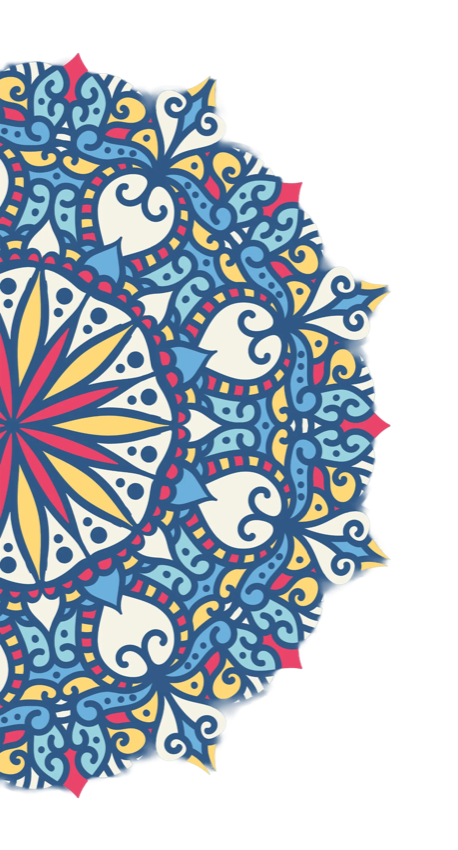
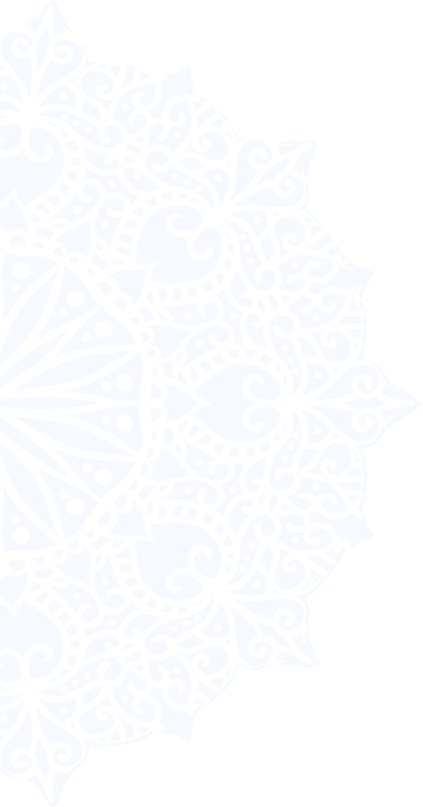
style: update opacity for login patterns to enhance visibility

diff --git a/src/pages/app/loginnew/page.vue b/src/pages/app/loginnew/page.vue
@@ -193,14 +193,14 @@ const onDone = () => {
   background-repeat: no-repeat;
   background-position: left center;
   background-size: auto 105%;
-  opacity: 0.15;
+  opacity: 1;
   -webkit-mask-image: linear-gradient(to right, #000 45%, transparent 85%);
   mask-image: linear-gradient(to right, #000 45%, transparent 85%);
   transition: opacity 0.25s;
 }
 
 [data-theme='dark'] .login-new__hero-pattern {
-  opacity: 0.15;
+  opacity: 1;
 }
 
 /* Karta pastki qismidagi mandala naqshi — pastga tiqilgan, tepaga qarab so'nadi */
@@ -217,7 +217,7 @@ const onDone = () => {
 }
 
 [data-theme='dark'] .login-new__card-pattern {
-  opacity: 0.4;
+  opacity: 1;
 }
 
 .login-new__card {
